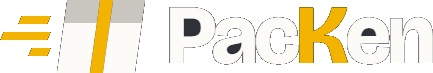
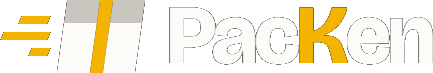
mejorando diseño

Changed region(s): [[0.4203, 0.2466, 0.4804, 0.4932], [0.5104, 0.6027, 0.5704, 0.7397], [0.8106, 0.3836, 0.8707, 0.4932]]

diff --git a/frontend/src/pages/Liquidaciones.jsx b/frontend/src/pages/Liquidaciones.jsx
@@ -177,24 +177,31 @@ const Liquidaciones = () => {
   return (
     <div className="max-w-4xl mx-auto">
       <div className="bg-white rounded-2xl shadow-sm border border-gray-200 p-4 sm:p-6">
-        <div className="flex flex-wrap items-start justify-between gap-3 mb-4">
-          <div>
+        {/* Nada de montar y desmontar segun la seleccion: en el celular cada
+            aparicion empujaba la lista y el dedo terminaba tocando otra fila.
+            "Deseleccionar" siempre esta, deshabilitado cuando no hay nada. */}
+        <div className="flex items-start justify-between gap-3 mb-4">
+          <div className="min-w-0">
             <h2 className="text-xl sm:text-2xl font-bold text-gray-800">Liquidaciones</h2>
             <p className="text-sm text-gray-500 mt-1">
-              {loading
-                ? 'Cargando...'
-                : `${seleccionados.size} de ${transportistas.length} transportista${transportistas.length === 1 ? '' : 's'} seleccionado${seleccionados.size === 1 ? '' : 's'}`}
+              {/* Texto corto y de largo parejo: el anterior cambiaba de
+                  singular a plural y en el celular pasaba de una linea a dos,
+                  corriendo toda la lista de abajo. */}
+              {loading ? 'Cargando...' : `${seleccionados.size} de ${transportistas.length} seleccionados`}
             </p>
           </div>
-          {seleccionados.size > 0 && (
-            <button
-              type="button"
-              onClick={() => setSeleccionados(new Set())}
-              className="text-xs sm:text-sm px-3 py-1.5 bg-red-100 text-red-700 border border-red-200 rounded-lg hover:bg-red-200 transition-colors duration-150 font-medium"
-            >
-              Deseleccionar
-            </button>
-          )}
+          <button
+            type="button"
+            onClick={() => setSeleccionados(new Set())}
+            disabled={seleccionados.size === 0}
+            className={`shrink-0 text-xs sm:text-sm px-3 py-1.5 rounded-lg border transition-colors duration-150 font-medium ${
+              seleccionados.size === 0
+                ? 'bg-gray-50 text-gray-300 border-gray-200 cursor-not-allowed'
+                : 'bg-red-100 text-red-700 border-red-200 hover:bg-red-200'
+            }`}
+          >
+            Deseleccionar
+          </button>
         </div>
 
         {error && (
@@ -315,11 +322,13 @@ const Liquidaciones = () => {
           </button>
         </div>
 
-        {seleccionados.size > 0 && (!desde || !hasta) && (
-          <p className="mt-3 text-center text-xs text-gray-500">
-            Elegí un rango de fechas para poder crear la liquidación.
-          </p>
-        )}
+        {/* La ayuda siempre ocupa su lugar aunque este vacia, para que aparecer
+            y desaparecer no mueva los botones de arriba. */}
+        <p className="mt-3 min-h-4 text-center text-xs text-gray-500">
+          {seleccionados.size > 0 && (!desde || !hasta)
+            ? 'Elegí un rango de fechas para poder crear la liquidación.'
+            : ''}
+        </p>
       </div>
     </div>
   );

diff --git a/frontend/src/components/Layout.jsx b/frontend/src/components/Layout.jsx
@@ -10,11 +10,16 @@ const Layout = ({ children }) => {
       <Sidebar abierto={sidebarAbierto} onCerrar={() => setSidebarAbierto(false)} />
 
       <div className="flex-1 lg:ml-64 flex flex-col">
-        {/* Header solo visible en mobile/tablet: botón a la izquierda, logo centrado */}
-        <header className="lg:hidden grid grid-cols-3 items-center bg-white border-b border-gray-200 px-4 py-3 sticky top-0 z-20">
+        {/* Header solo visible en mobile/tablet: botón a la izquierda, logo centrado.
+            Va en el mismo amarillo que el sidebar: con el header blanco, la app
+            se veía de un color en el celular y de otro en la compu.
+            Las columnas de los costados son 1fr y la del medio auto, para que
+            el logo ocupe su ancho natural en vez de que lo apriete un tercio
+            fijo de pantalla y se achate. */}
+        <header className="lg:hidden grid grid-cols-[1fr_auto_1fr] items-center bg-marca-amarillo border-b border-marca-oro/25 px-4 py-3 sticky top-0 z-20">
           <button
             onClick={() => setSidebarAbierto(true)}
-            className="text-gray-700 hover:text-gray-900 p-2 justify-self-start"
+            className="text-marca-grafito/70 hover:text-marca-grafito p-2 justify-self-start"
             aria-label="Abrir menú"
           >
             <svg width="24" height="24" viewBox="0 0 24 24" fill="none" stroke="currentColor" strokeWidth="2">

diff --git a/frontend/src/components/Logo.jsx b/frontend/src/components/Logo.jsx
@@ -4,13 +4,19 @@
 //
 // width/height son los del PNG: con la relación de aspecto declarada el
 // navegador reserva el espacio antes de bajar la imagen y no salta el layout.
+//
+// `max-w-none` y `object-contain` están por el achatamiento en celular: el
+// reset de Tailwind le pone max-width:100% a toda imagen, y como acá la altura
+// va fija por clase, en un contenedor angosto el ancho se recortaba y el logo
+// salía aplastado. Con max-w-none conserva su ancho natural, y object-contain
+// lo deja proporcionado igual si algún contenedor lo llega a apretar.
 const Logo = ({ className = 'h-7', fondo = 'claro' }) => (
   <img
     src={`/packen-7b-${fondo}.png`}
     alt="PacKen"
     width={433}
     height={73}
-    className={`w-auto ${className}`}
+    className={`w-auto max-w-none object-contain ${className}`}
   />
 );
 

diff --git a/frontend/index.html b/frontend/index.html
@@ -5,6 +5,9 @@
     <link rel="icon" type="image/png" href="/packen-icono-amarillo.png" />
     <link rel="apple-touch-icon" href="/packen-icono-amarillo.png" />
     <meta name="viewport" content="width=device-width, initial-scale=1.0" />
+    <!-- Tiñe la barra del navegador en el celular con el amarillo de la app,
+         para que no aparezca una franja de otro color arriba del header. -->
+    <meta name="theme-color" content="#F7E7A8" />
     <title>PacKen</title>
     <link rel="preconnect" href="https://fonts.googleapis.com" />
     <link rel="preconnect" href="https://fonts.gstatic.com" crossorigin />
